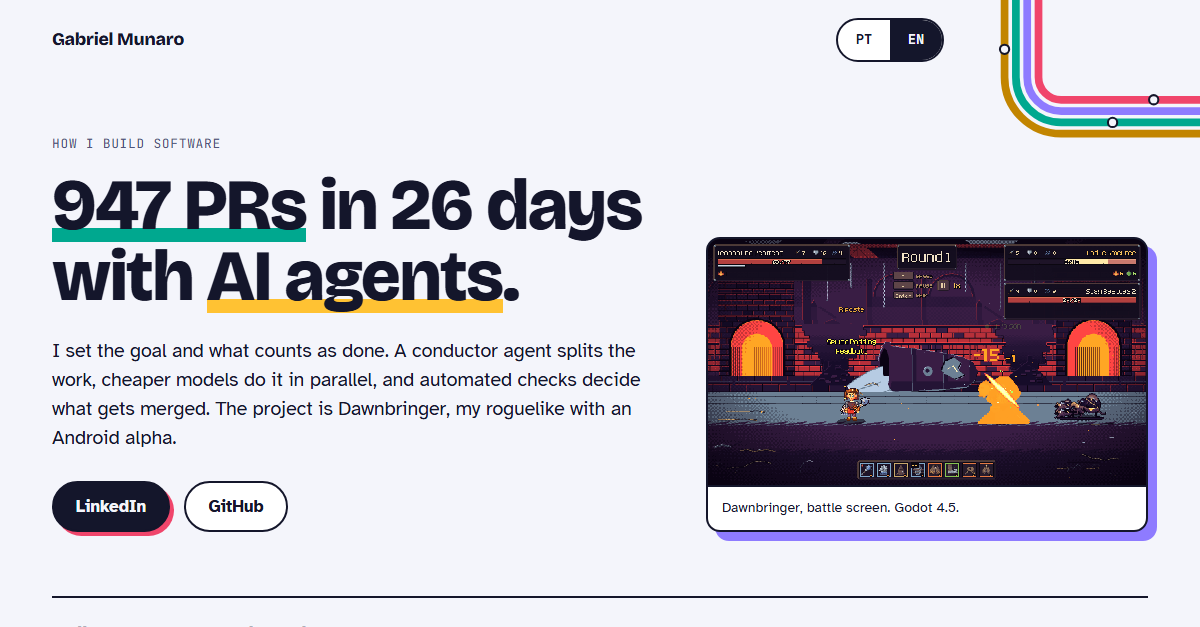
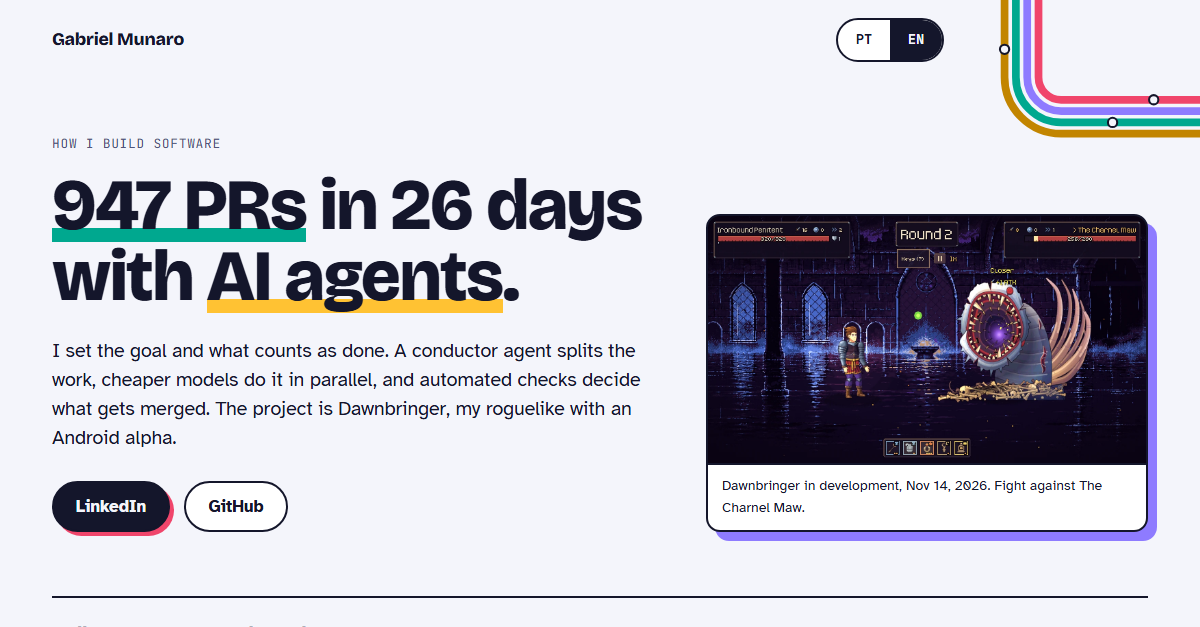
Show the current development build and the strongest art
The page opened with a pixel-art battle screenshot from the 0.7.2
release and a gallery that included a door and a pair of moths. The
game has moved to SVG character art since then, and the best pieces
were not on the page.

- Hero image is now a boss fight against The Charnel Maw.
- Three more screenshots sit above the gallery: a group fight in the
  Hanging Wood, The Orchard Eater's tithe screen and a fight in The
  Crucible.
- The gallery shows eleven characters picked from the 93 SVG rigs on
  master, mostly bosses.
- New link preview image.

The screenshots were recorded from dawnbringer master f78fa3197 with
the art/svg flag on (it is off by default), at 1920x1080, through the
game's own capture scenes. The gallery pick is by eye: the project
jury recorded votes per piece, not scores.

Verified: Chrome headless screenshots of the top of the page at
1280 px (EN) and 400 px (PT); every img/ file the page references
exists. Not verified: screen reader pass.

Changed region(s): [[0.5858, 0.3333, 0.9867, 0.8182]]

diff --git a/index.html b/index.html
@@ -92,7 +92,7 @@ h1{font-size:clamp(2.4rem,6.3vw,4.5rem);line-height:.98;font-weight:800;margin-t
 .hl-y{background-image:linear-gradient(var(--sun),var(--sun))}
 .lede{font-size:clamp(1.08rem,1.7vw,1.22rem);line-height:1.5;max-width:58ch;margin-top:24px}
 .shot{border-radius:14px;overflow:hidden;border:2px solid var(--fg);box-shadow:9px 9px 0 var(--o);background:var(--art)}
-.shot img{width:100%;image-rendering:pixelated}
+.shot img{width:100%}
 .shot figcaption,.cap{font-size:.88rem;color:var(--muted)}
 .shot figcaption{padding:10px 14px;background:var(--surface);border-top:2px solid var(--fg);color:var(--fg)}
 
@@ -125,9 +125,14 @@ h1{font-size:clamp(2.4rem,6.3vw,4.5rem);line-height:.98;font-weight:800;margin-t
 .art{background:var(--art);color:var(--art-fg)}
 .gallery{display:flex;gap:8px;overflow-x:auto;padding:28px max(16px,env(safe-area-inset-left,0px)) 8px;scrollbar-width:thin;scroll-snap-type:x proximity}
 .gallery figure{flex:none;scroll-snap-align:center;display:grid;justify-items:center;align-content:end;gap:6px;width:clamp(150px,19vw,230px)}
-.gallery img{height:clamp(170px,22vw,250px);width:auto;object-fit:contain;transition:transform .25s}
+.gallery img{height:clamp(170px,22vw,250px);width:auto;max-width:100%;object-fit:contain;transition:transform .25s}
 .gallery figure:hover img{transform:translateY(-8px) scale(1.04)}
 .gallery figcaption{font-family:var(--mono);font-size:.74rem;color:var(--art-muted);text-align:center}
+.shots{display:grid;gap:14px;padding-top:32px}
+@media (min-width:760px){.shots{grid-template-columns:repeat(3,minmax(0,1fr))}}
+.shots figure{border-radius:12px;overflow:hidden;border:2px solid var(--art-rule);background:#000}
+.shots img{width:100%;display:block}
+.shots figcaption{font-family:var(--mono);font-size:.74rem;color:var(--art-muted);padding:8px 10px;background:var(--art)}
 .art-note{padding-block:14px 30px;color:var(--art-muted);font-size:.98rem}
 .art-note p{max-width:78ch}
 .art-note b{color:var(--art-fg)}
@@ -319,8 +324,8 @@ footer p{max-width:86ch}
         </div>
       </div>
       <figure class="shot">
-        <img src="img/battle.png" width="1280" height="720" alt="" id="shot-img">
-        <figcaption><span lang="pt">Dawnbringer, tela de batalha. Godot 4.5.</span><span lang="en">Dawnbringer, battle screen. Godot 4.5.</span></figcaption>
+        <img src="img/shot-boss.webp" width="1280" height="720" alt="" id="shot-img">
+        <figcaption><span lang="pt">Dawnbringer em desenvolvimento, 14 nov de 2026. Luta contra The Charnel Maw.</span><span lang="en">Dawnbringer in development, Nov 14, 2026. Fight against The Charnel Maw.</span></figcaption>
       </figure>
     </div>
 
@@ -342,20 +347,28 @@ footer p{max-width:86ch}
 </header>
 
 <section class="art" aria-labelledby="h-art">
-  <h2 class="sr" id="h-art"><span lang="pt">Personagens do jogo feitos pelo fluxo</span><span lang="en">Game characters made by the workflow</span></h2>
+  <h2 class="sr" id="h-art"><span lang="pt">Telas e personagens do jogo</span><span lang="en">Game screens and characters</span></h2>
+  <div class="wrap shots">
+    <figure><img src="img/shot-wood.webp" width="960" height="540" alt="" loading="lazy" id="shot-wood"><figcaption><span lang="pt">Luta em grupo na Hanging Wood</span><span lang="en">Group fight in the Hanging Wood</span></figcaption></figure>
+    <figure><img src="img/shot-landlord.webp" width="960" height="540" alt="" loading="lazy" id="shot-landlord"><figcaption><span lang="pt">The Orchard Eater vem cobrar o dízimo</span><span lang="en">The Orchard Eater comes to collect the tithe</span></figcaption></figure>
+    <figure><img src="img/shot-crucible.webp" width="960" height="540" alt="" loading="lazy" id="shot-crucible"><figcaption><span lang="pt">Luta em The Crucible</span><span lang="en">Fight in The Crucible</span></figcaption></figure>
+  </div>
   <div class="gallery" tabindex="0" id="gallery">
-    <figure><img src="img/c-threshold.webp" width="358" height="549" alt="" loading="lazy"><figcaption>The Iron Threshold</figcaption></figure>
-    <figure><img src="img/c-crow.webp" width="427" height="466" alt="" loading="lazy"><figcaption>Crow Cultist</figcaption></figure>
-    <figure><img src="img/c-claw.webp" width="462" height="438" alt="" loading="lazy"><figcaption>The Lesser Claw</figcaption></figure>
-    <figure><img src="img/c-golem.webp" width="363" height="434" alt="" loading="lazy"><figcaption>Slag Golem</figcaption></figure>
-    <figure><img src="img/c-scarecrow.webp" width="328" height="488" alt="" loading="lazy"><figcaption>Scarecrow</figcaption></figure>
-    <figure><img src="img/c-revenant.webp" width="234" height="542" alt="" loading="lazy"><figcaption>Hanged Revenant</figcaption></figure>
-    <figure><img src="img/c-cinderling.webp" width="476" height="540" alt="" loading="lazy"><figcaption>Cinderling</figcaption></figure>
-    <figure><img src="img/c-ashplough.webp" width="618" height="376" alt="" loading="lazy"><figcaption>The Ashplough</figcaption></figure>
+    <figure><img src="img/c-orchard-eater.webp" width="554" height="560" alt="" loading="lazy"><figcaption>The Orchard Eater</figcaption></figure>
+    <figure><img src="img/c-charnel-maw.webp" width="608" height="560" alt="" loading="lazy"><figcaption>The Charnel Maw</figcaption></figure>
+    <figure><img src="img/c-bellringer.webp" width="514" height="560" alt="" loading="lazy"><figcaption>The Bellringer</figcaption></figure>
+    <figure><img src="img/c-lamplure.webp" width="595" height="560" alt="" loading="lazy"><figcaption>The Lamplure</figcaption></figure>
+    <figure><img src="img/c-scalding-colossus.webp" width="564" height="560" alt="" loading="lazy"><figcaption>The Scalding Colossus</figcaption></figure>
+    <figure><img src="img/c-crowmother.webp" width="467" height="560" alt="" loading="lazy"><figcaption>The Crowmother</figcaption></figure>
+    <figure><img src="img/c-drowsing-abbess.webp" width="558" height="560" alt="" loading="lazy"><figcaption>The Drowsing Abbess</figcaption></figure>
+    <figure><img src="img/c-cinderglass.webp" width="505" height="560" alt="" loading="lazy"><figcaption>The Cinderglass</figcaption></figure>
+    <figure><img src="img/c-crucible-crab.webp" width="700" height="547" alt="" loading="lazy"><figcaption>The Crucible Crab</figcaption></figure>
+    <figure><img src="img/c-mimic.webp" width="556" height="560" alt="" loading="lazy"><figcaption>Mimic</figcaption></figure>
+    <figure><img src="img/c-tithe-taker.webp" width="482" height="560" alt="" loading="lazy"><figcaption>Pruner</figcaption></figure>
   </div>
   <div class="wrap art-note">
-    <p lang="pt">Arte do jogo em SVG, desenhada por um agente a partir de uma peça base. Uma versão nova só entra se vencer a anterior em voto cego.</p>
-    <p lang="en">The game's SVG art, drawn by an agent from a base piece. A new version ships only if it beats the previous one in a blind vote.</p>
+    <p lang="pt">Capturas da versão em desenvolvimento, em 14 de novembro de 2026. Os personagens são arte SVG, desenhada por um agente a partir de uma peça base. Uma versão nova só entra se vencer a anterior em voto cego.</p>
+    <p lang="en">Screenshots of the development build, taken on November 14, 2026. The characters are SVG art, drawn by an agent from a base piece. A new version ships only if it beats the previous one in a blind vote.</p>
   </div>
 </section>
 
@@ -606,7 +619,10 @@ footer p{max-width:86ch}
 
   /* galeria: textos alternativos */
   renders.push(() => {
-    $('shot-img').alt = L('Captura do jogo: um herói em pixel art enfrenta dois inimigos numa fundição, com barras de vida e uma fila de itens.', 'Game screenshot: a pixel-art hero fights two enemies in a foundry, with health bars and a row of items.');
+    $('shot-img').alt = L('Captura do jogo: um herói de armadura enfrenta The Charnel Maw, um verme gigante de boca aberta sobre um ninho de ossos, numa cripta alagada.', 'Game screenshot: an armored hero faces The Charnel Maw, a giant open-mouthed worm on a nest of bones, in a flooded crypt.');
+    $('shot-wood').alt = L('Captura do jogo: o herói luta contra um apicultor e um enforcado numa floresta com forcas.', 'Game screenshot: the hero fights a beekeeper and a hanged man in a forest of gallows.');
+    $('shot-landlord').alt = L('Captura do jogo: tela do chefe The Orchard Eater, um gigante com coroa de galhos, com as opções de pagar o dízimo ou lutar.', 'Game screenshot: the boss screen for The Orchard Eater, a giant with a crown of branches, with the choices to pay the tithe or fight.');
+    $('shot-crucible').alt = L('Captura do jogo: o herói encapuzado enfrenta um fundidor e um enxame de besouros numa fundição em ruínas.', 'Game screenshot: the hooded hero faces a smelter and a swarm of beetles in a ruined foundry.');
     document.querySelectorAll('#gallery img').forEach(im => { im.alt = L('Ilustração em SVG do personagem ', 'SVG illustration of the character ') + im.nextElementSibling.textContent; });
     $('gallery').setAttribute('aria-label', L('Galeria de personagens, role para o lado', 'Character gallery, scroll sideways'));
     $('img-x').alt = L('Versão X: caranguejo de metal com rachaduras escuras.', 'Version X: a metal crab with dark cracks.');

diff --git a/README.md b/README.md
@@ -11,11 +11,11 @@ The page is in English and Brazilian Portuguese. It picks the language from the 
 - Pull request counts come from the GitHub API for `gmunaro/dawnbringer`, measured on November 13, 2026.
 - Costs come from my telemetry hook, at API-equivalent prices.
 - The runs, votes and lessons come from the scoreboard in [gmunaro/claude-skills](https://github.com/gmunaro/claude-skills).
-- The art in `img/` is from Dawnbringer, my game.
+- The art in `img/` is from Dawnbringer, my game. The screenshots were recorded on November 14, 2026 from the development branch (`master` at `f78fa3197`) with the SVG character art turned on, which is still off by default in the game.
 
 ## Files
 
 - `index.html`: the whole page, with its CSS and JavaScript inline.
-- `img/`: the game screenshot, eight SVG characters rendered to WebP, the two versions used in the blind vote, and the link preview image.
+- `img/`: four game screenshots, eleven SVG characters rendered to WebP, the two versions used in the blind vote, and the link preview image.
 
 Written with Claude Code (Fable 5.2).
